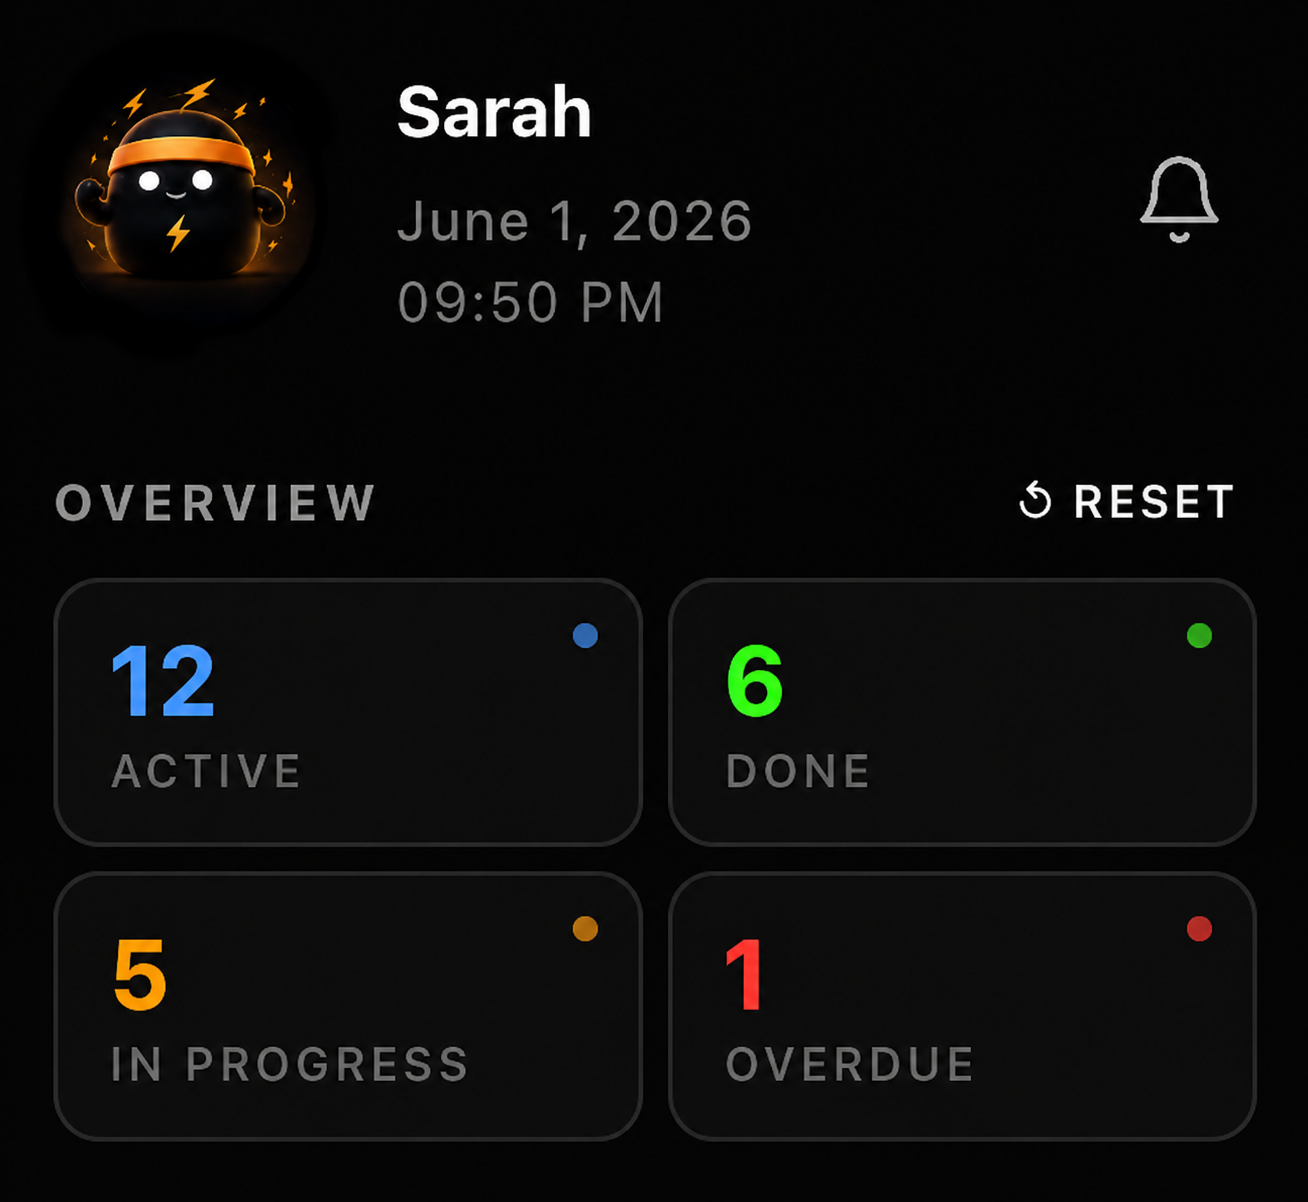
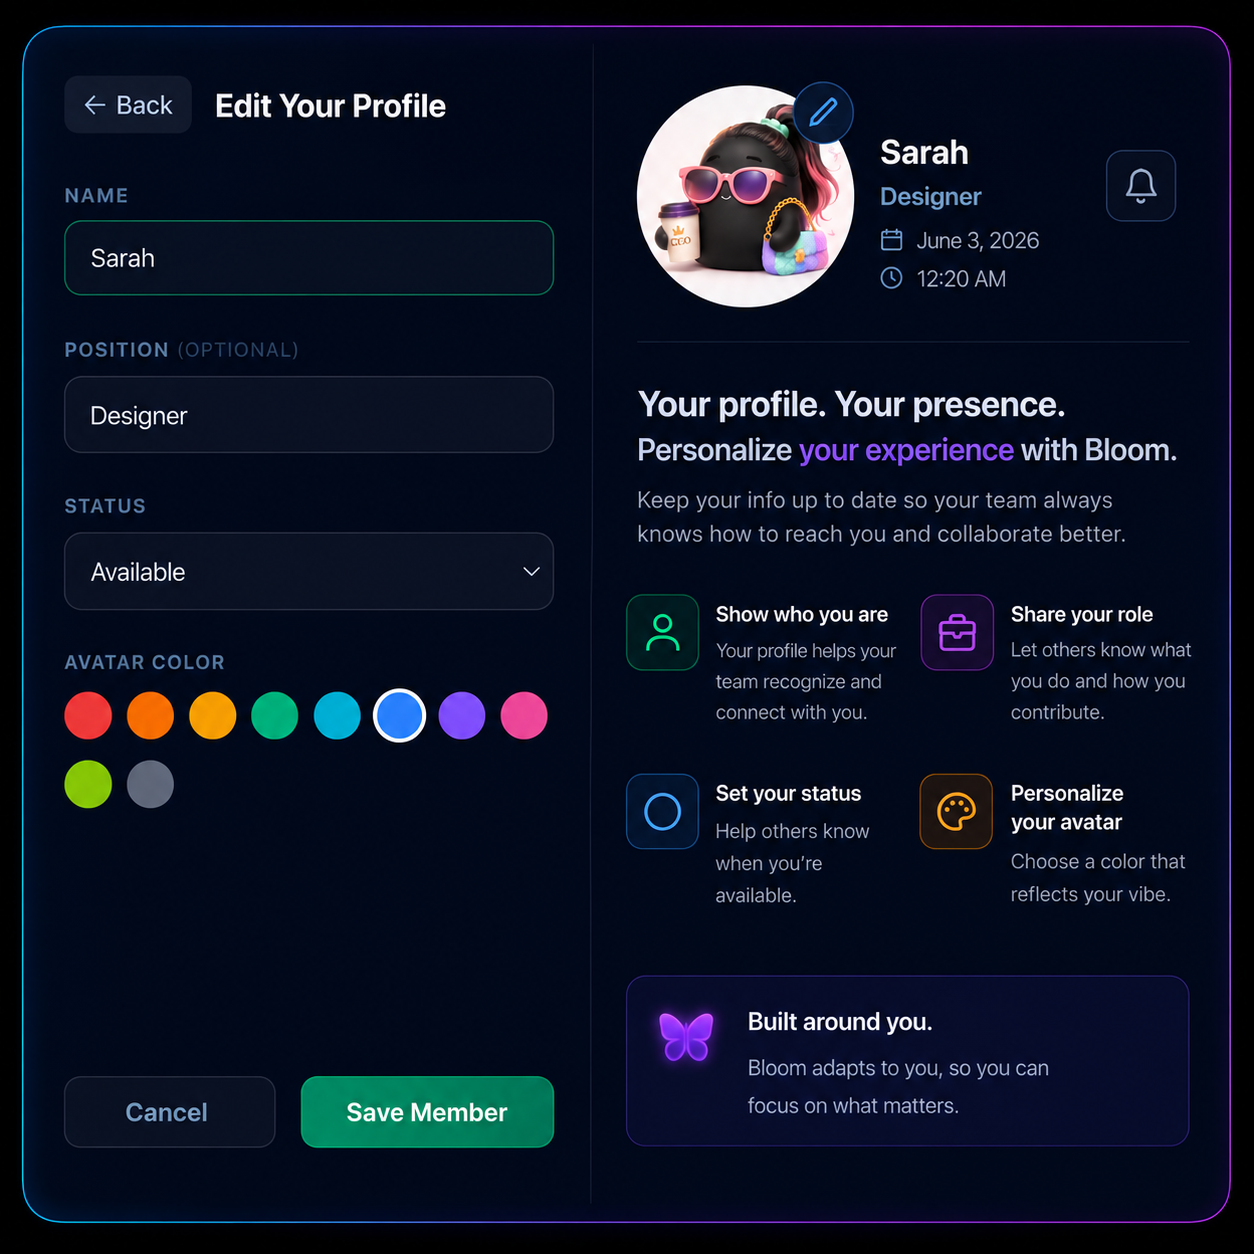
Replace Feature 01 image with Edit Profile screenshot, adjust maxWidth and image dimensions

diff --git a/src/components/walkthrough/WalkthroughItem.tsx b/src/components/walkthrough/WalkthroughItem.tsx
@@ -19,7 +19,7 @@ interface WalkthroughItemProps {
 
 // Per-feature config: maxWidth + which frame/mockup to render
 const IMAGE_CONFIG: Record<string, { maxWidth: string; frame: string }> = {
-  "greeting-stats":    { maxWidth: "460px", frame: "screenshot"      },
+  "greeting-stats":    { maxWidth: "480px", frame: "screenshot"      },
   "task-list":         { maxWidth: "400px", frame: "html-task-list"  },
   "subtasks":          { maxWidth: "520px", frame: "html-task-detail" },
   "daily-progress":    { maxWidth: "560px", frame: "screenshot"      },
@@ -123,8 +123,8 @@ function ScreenshotFrame({ src, alt, accentColor }: { src: string; alt: string; 
       <Image
         src={src}
         alt={alt}
-        width={800}
-        height={600}
+        width={1254}
+        height={1254}
         className="w-full h-auto rounded-2xl"
         style={{ display: "block" }}
         unoptimized
